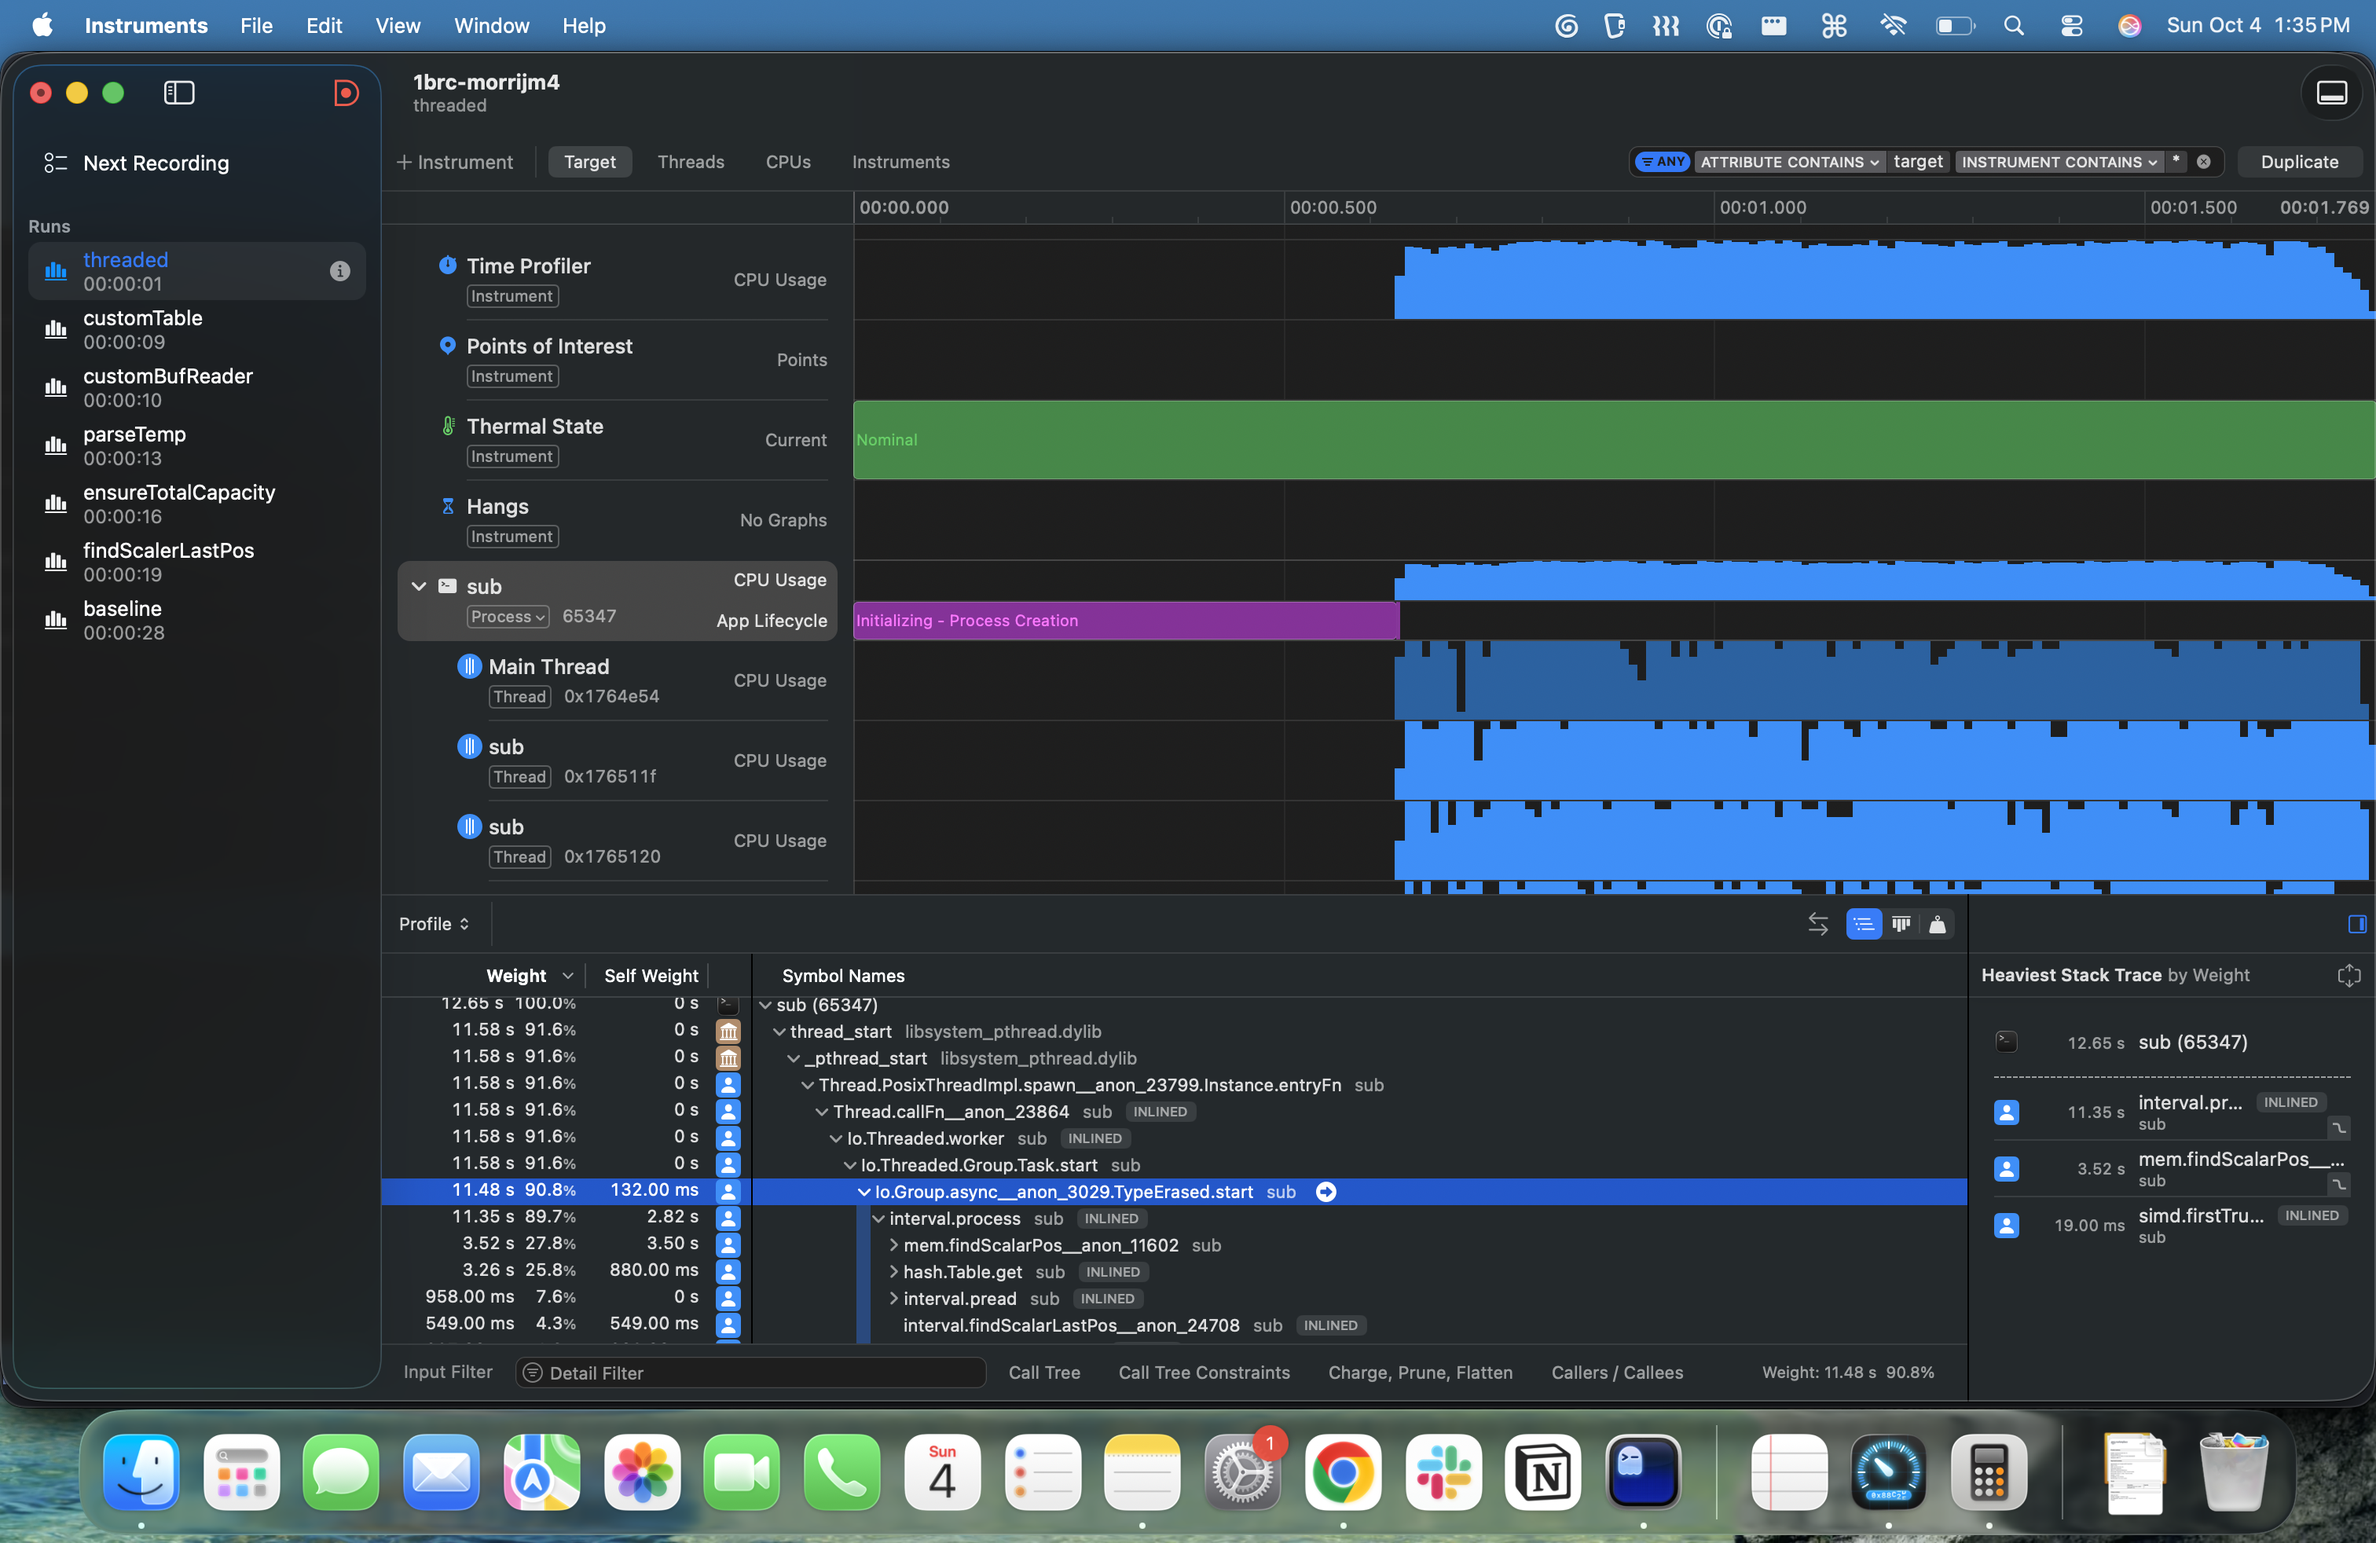
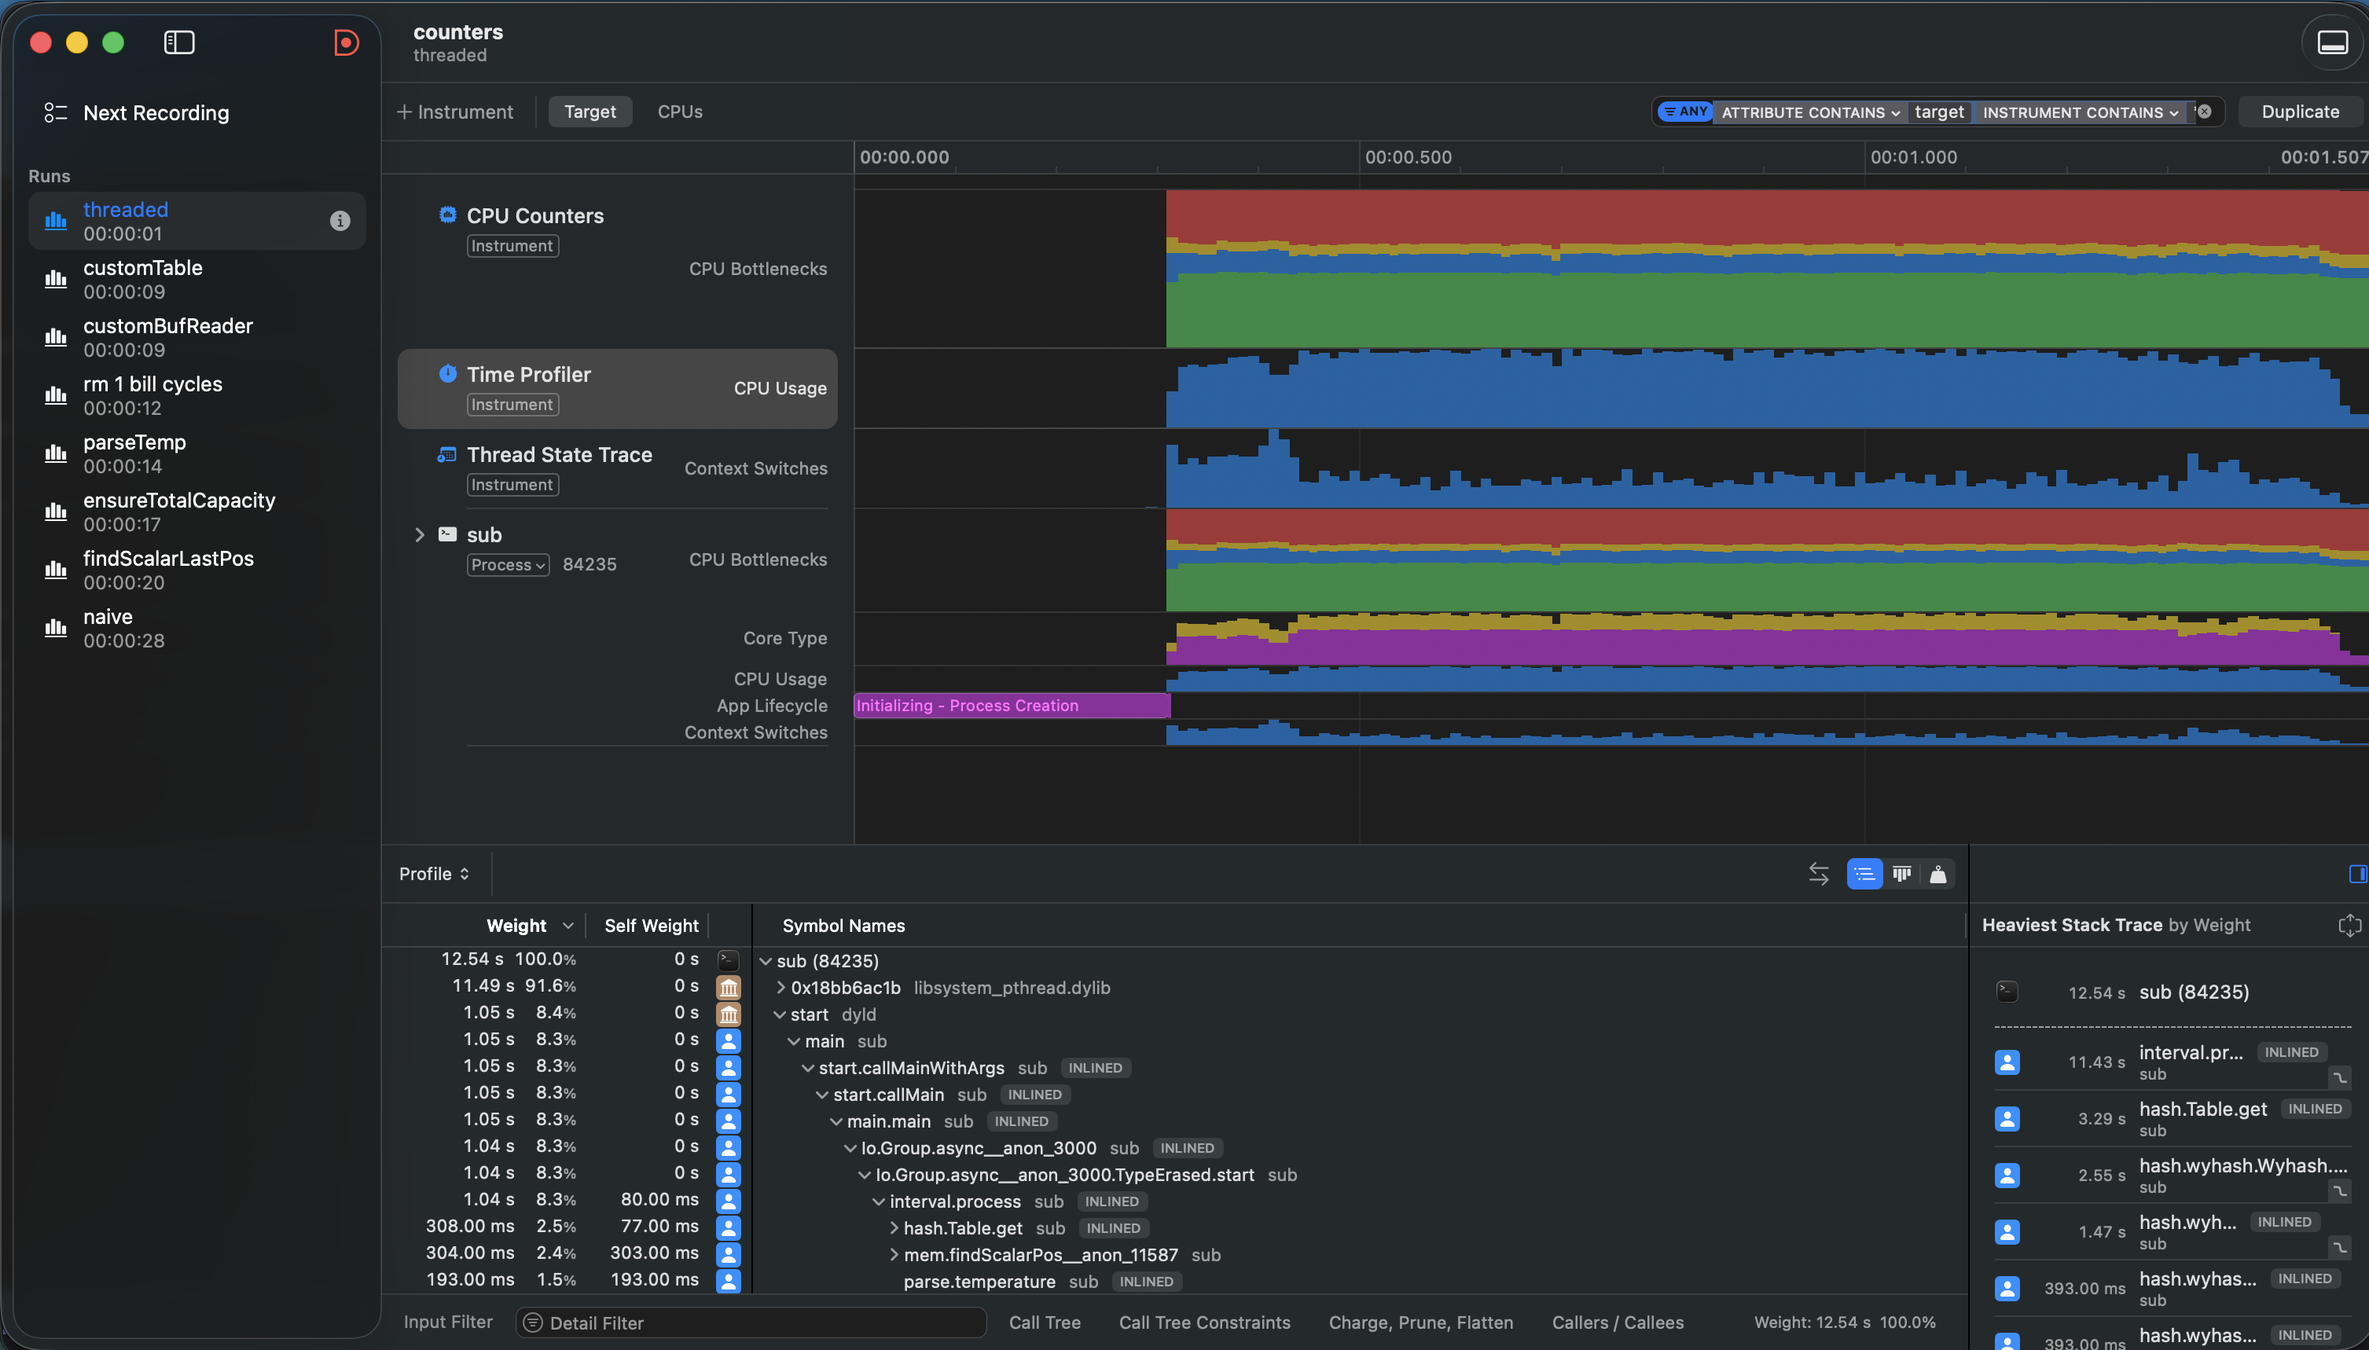
update image

diff --git a/src/app/posts/one-billion-row-challenge/page.md b/src/app/posts/one-billion-row-challenge/page.md
@@ -34,8 +34,8 @@ Hamburg;-34.2
 ```
 
 The challenge laid out a list of rules and constraints about the inputs. For
-this blog post, here are the constraints with most relevance. You can find the full
-list of rules [here](https://1brc.dev/#rules-and-limits).
+this blog post, here are the constraints with the most relevance. You can find
+the full list of rules [here](https://1brc.dev/#rules-and-limits).
 
 - There are at most 10,000 unique weather stations.
 - A station name has a max length of 100 bytes.
@@ -65,8 +65,9 @@ To identify choke points, I utilized Apple's profiler that ships with XCode,
 program's stack trace every 1 millisecond to provide estimates on the total time
 spent in each function. This is made possible because Zig emits
 [DWARF](https://dwarfstd.org/) compliant debug symbols so Instruments can map
-back to the source function names. Not to mention it also has a beautiful UI. So
-big thanks to the Apple and Zig teams.
+back to the source function names. It also can track hardware counters that can
+help you identify where in your processor pipeline your code is causing
+bottlenecks. Not to mention it also has a beautiful UI.
 
 ![Instruments](/Instruments.png)
 
